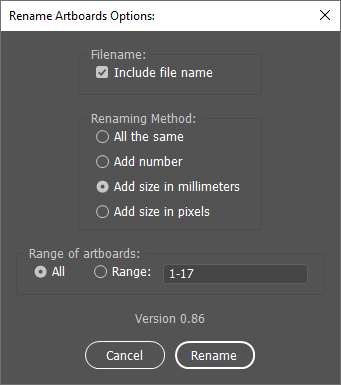
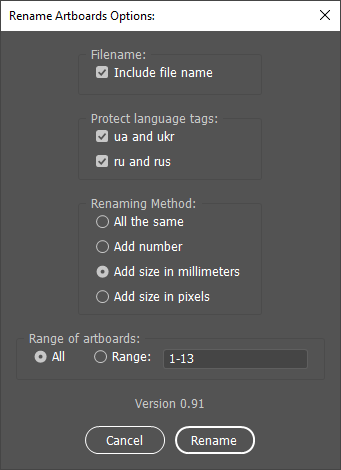
Updated script text. Added new screenshot

diff --git a/RenameArtboards.jsx b/RenameArtboards.jsx
@@ -21,7 +21,7 @@ if (app.documents.length == 0) {
     promptWindow.includeFileName.fileNameCheckbox.value = true;
     promptWindow.includeFileName.orientation = 'column';
 
-    promptWindow.protectLocales = promptWindow.add('panel', undefined, 'Protect language identificators:');
+    promptWindow.protectLocales = promptWindow.add('panel', undefined, 'Protect language tags:');
     promptWindow.protectLocales.uaCheckbox = promptWindow.protectLocales.add('checkbox', [20,0,170,15], 'ua and ukr');
     promptWindow.protectLocales.uaCheckbox.helpTip = 'Protecting ua, -ua, _ua, ukr, -ukr and _ukr strings.';
     promptWindow.protectLocales.uaCheckbox.value = true;

diff --git a/README.md b/README.md
@@ -15,4 +15,4 @@ Renaming can be applied to all artboards or to the range.
 
 Range can be specified by multiple dashes, e.g.  1, 3-5-7, 11, 14-17.
 
-If an artboard name before renaming has the local language identificator string (-ua/_ukr/ ru/rus etc.) it can be included in the new artboard name by choosing apropriate checkboxes in "Protect language identificators" group.
+If an artboard name before renaming has the local language identificator tag (-ua/_ukr/ ru/rus etc.) it can be included in the new artboard name by choosing apropriate checkboxes in "Protect language tags" group.
